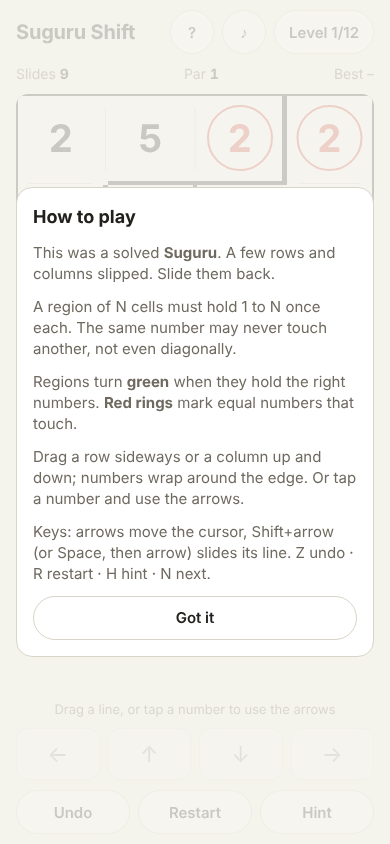
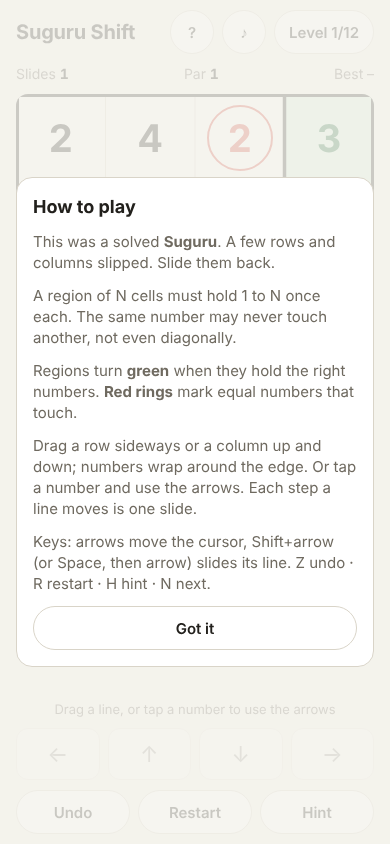
suguru-shift: reviewer fixes — readable late levels (regenerated 8-12), SVG region walls, Enter/Space on buttons, hint points at Undo when far, win card layout
Claude-Session: https://claude.ai/code/session_01KdYV55rHBy7eUg8H18qspM

diff --git a/games/suguru-shift/index.html b/games/suguru-shift/index.html
@@ -23,7 +23,8 @@
     padding: max(10px, env(safe-area-inset-top)) max(16px, env(safe-area-inset-right)) max(10px, env(safe-area-inset-bottom)) max(16px, env(safe-area-inset-left)); }
   main { width: min(100%, 480px); margin: 0 auto; min-height: 100%; display: flex; flex-direction: column; gap: 10px; }
   header { display: flex; align-items: center; gap: 8px; }
-  h1 { margin: 0; font-size: 20px; letter-spacing: -0.01em; flex: 1; }
+  h1 { margin: 0; font-size: 20px; letter-spacing: -0.01em; flex: 1; white-space: nowrap; }
+  @media (max-width: 370px) { h1 { font-size: 17px; } header .chip { padding: 0 10px; } }
   button { font: inherit; color: inherit; }
   .chip { border: 1px solid var(--line); background: var(--panel); border-radius: 999px; padding: 0 14px; min-height: 44px; min-width: 44px; cursor: pointer; font-weight: 600; font-size: 15px; }
   .chip:focus-visible, .pad button:focus-visible, .lv:focus-visible { outline: 3px solid var(--accent); outline-offset: 2px; }
@@ -32,7 +33,7 @@
   #tip { min-height: 2.8em; font-size: 14px; color: var(--muted); margin: 0; }
   #tip strong { color: var(--ink); }
   .stage { display: flex; flex-direction: column; gap: 10px; }
-  #board { position: relative; width: min(100%, max(240px, calc(100vh - 320px))); margin: 0 auto; aspect-ratio: 1; touch-action: none; user-select: none; -webkit-user-select: none;
+  #board { position: relative; width: min(100%, max(240px, calc(100vh - 345px))); margin: 0 auto; aspect-ratio: 1; touch-action: none; user-select: none; -webkit-user-select: none;
     border-radius: 12px; overflow: hidden; background: var(--wall); cursor: grab; outline: none; }
   #board.dragging { cursor: grabbing; }
   #board:focus-visible { box-shadow: 0 0 0 3px var(--accent); }
@@ -58,6 +59,9 @@
   .pad { display: grid; grid-template-columns: repeat(4, 1fr); gap: 8px; }
   .pad button { min-height: 52px; border-radius: 12px; border: 1px solid var(--line); background: var(--panel); font-size: 22px; cursor: pointer; }
   .pad button:disabled { opacity: .4; cursor: default; }
+  .chip.pulse { box-shadow: 0 0 0 3px var(--hint); }
+  body.won .tools { display: none; }
+  #win .row .chip { padding: 0 8px; }
   #win { display: none; flex-direction: column; gap: 8px; background: var(--panel); border: 1px solid var(--line); border-radius: 14px; padding: 14px; text-align: center; }
   #win h2 { margin: 0; font-size: 20px; }
   #win p { margin: 0; color: var(--muted); }
@@ -111,7 +115,7 @@
       <div id="win" role="status">
         <h2 id="winTitle">Solved!</h2>
         <p id="winText"></p>
-        <div class="row"><button class="chip" id="againBtn">Play again</button><button class="chip primary" id="nextBtn">Next level</button></div>
+        <div class="row"><button class="chip" id="winUndo">Undo</button><button class="chip" id="againBtn">Play again</button><button class="chip primary" id="nextBtn">Next level</button></div>
       </div>
       <p id="padNote"></p>
       <div class="pad" aria-label="Slide the selected line">
@@ -120,7 +124,7 @@
         <button id="padD" aria-label="Slide column down">↓</button>
         <button id="padR" aria-label="Slide row right">→</button>
       </div>
-      <div class="row">
+      <div class="row tools">
         <button class="chip" id="undoBtn">Undo</button>
         <button class="chip" id="restartBtn">Restart</button>
         <button class="chip" id="hintBtn">Hint</button>
@@ -142,7 +146,7 @@
     <p>This was a solved <strong>Suguru</strong>. A few rows and columns slipped. Slide them back.</p>
     <p>A region of N cells must hold 1 to N once each. The same number may never touch another, not even diagonally.</p>
     <p>Regions turn <strong>green</strong> when they hold the right numbers. <strong>Red rings</strong> mark equal numbers that touch.</p>
-    <p>Drag a row sideways or a column up and down; numbers wrap around the edge. Or tap a number and use the arrows.</p>
+    <p>Drag a row sideways or a column up and down; numbers wrap around the edge. Or tap a number and use the arrows. Each step a line moves is one slide.</p>
     <p class="keys">Keys: arrows move the cursor, Shift+arrow (or Space, then arrow) slides its line. Z undo · R restart · H hint · N next.</p>
     <button class="chip" id="helpClose">Got it</button>
   </div>
@@ -150,11 +154,11 @@
 <script>
 "use strict";
 // ================= constants / levels =================
-const LEVELS = [{"w":4,"h":4,"regions":[0,0,0,1,0,2,1,1,2,2,1,3,2,2,3,3],"goal":[3,2,4,2,1,5,1,3,4,2,4,2,3,1,3,1],"start":[2,4,2,3,1,5,1,3,4,2,4,2,3,1,3,1],"solution":["r0R"],"par":1},{"w":4,"h":4,"regions":[1,0,0,3,1,1,0,0,1,1,0,2,2,2,2,2],"goal":[4,3,4,1,1,5,2,5,2,3,1,3,1,4,2,5],"start":[4,3,2,1,1,5,4,5,2,3,2,3,1,4,1,5],"solution":["c2U"],"par":1},{"w":4,"h":4,"regions":[1,3,3,2,1,2,2,2,1,1,0,2,1,0,0,0],"goal":[4,2,1,2,1,5,4,3,2,3,2,1,5,1,4,3],"start":[2,1,2,4,3,1,5,4,2,3,2,1,5,1,4,3],"solution":["r0R","r1L"],"par":2},{"w":5,"h":5,"regions":[0,0,2,2,2,0,0,0,2,4,3,3,3,2,4,5,3,3,4,4,1,1,1,1,4],"goal":[2,4,2,1,3,1,5,3,5,2,2,4,1,4,1,1,5,3,5,3,3,2,4,1,4],"start":[3,4,2,1,3,2,1,5,3,5,2,4,1,4,1,2,5,3,5,3,1,2,4,1,4],"solution":["c0U","r1L"],"par":2},{"w":5,"h":5,"regions":[0,1,1,1,1,0,0,6,2,2,5,0,0,2,2,5,3,4,4,2,3,3,3,4,4],"goal":[2,3,2,4,1,1,4,1,3,2,2,3,5,4,1,1,4,2,3,5,2,3,1,4,1],"start":[2,3,2,4,1,1,4,1,3,2,3,5,4,1,2,5,1,4,2,3,2,3,1,4,1],"solution":["r2R","r3L"],"par":2},{"w":5,"h":5,"regions":[4,4,2,5,5,4,4,2,0,0,3,3,2,2,0,3,1,6,2,0,1,1,1,1,0],"goal":[1,2,5,2,1,3,4,1,4,3,1,2,3,2,5,3,5,1,4,1,1,4,2,3,2],"start":[1,2,5,2,2,3,4,1,4,1,3,1,2,3,2,5,3,5,1,4,1,4,2,3,1],"solution":["r2L","r3L","c4U"],"par":3},{"w":5,"h":5,"regions":[2,2,1,1,3,0,1,1,3,3,0,0,0,4,3,5,0,6,4,3,5,5,4,4,4],"goal":[2,1,2,1,4,3,4,3,5,2,1,5,2,4,1,3,4,1,5,3,1,2,3,2,1],"start":[1,1,2,1,4,2,4,3,1,2,3,5,2,5,1,1,4,1,4,3,2,3,2,5,3],"solution":["c3U","r4R","c0U"],"par":3},{"w":6,"h":6,"regions":[6,6,6,0,3,3,2,6,6,0,0,3,2,2,2,7,7,3,2,1,7,7,4,3,1,1,5,4,4,4,1,1,5,5,5,4],"goal":[1,2,5,2,4,1,3,4,3,1,3,2,1,2,5,2,4,5,4,3,1,3,1,3,1,2,4,5,4,2,4,5,3,2,1,3],"start":[1,2,5,1,4,1,2,3,4,3,5,3,5,1,2,3,2,4,4,3,1,5,1,3,1,2,4,2,4,2,4,5,3,2,1,3],"solution":["r1L","c3D","r2L"],"par":3},{"w":6,"h":6,"regions":[6,6,3,3,3,3,6,6,1,3,2,2,6,5,1,1,4,2,5,5,1,1,4,4,5,7,0,0,8,4,0,0,0,8,8,8],"goal":[1,5,3,1,4,2,4,2,4,5,3,1,3,1,3,1,4,2,2,4,5,2,3,1,3,1,3,1,4,2,2,5,4,2,3,1],"start":[1,5,3,1,4,2,2,4,5,3,1,4,1,3,1,4,2,3,1,2,4,5,2,3,1,3,1,4,2,3,2,5,4,2,3,1],"solution":["r1R","r2R","r3L","r4R"],"par":4},{"w":6,"h":6,"regions":[4,4,4,4,4,6,8,2,2,2,3,6,8,0,2,2,3,3,7,0,0,5,3,3,7,0,5,5,1,1,7,0,5,1,1,1],"goal":[1,4,5,2,3,1,2,3,1,4,5,2,1,4,5,2,1,3,3,2,1,3,4,2,1,5,4,2,1,3,2,3,1,5,4,2],"start":[1,2,1,5,2,3,1,3,4,4,5,2,3,4,1,2,1,3,1,2,5,3,4,2,3,2,5,1,2,1,1,3,4,5,4,2],"solution":["r4L","c2U","r0L","c0D"],"par":4},{"w":6,"h":6,"regions":[0,6,6,7,7,7,0,6,6,5,5,8,0,0,3,5,5,8,0,3,3,2,5,8,4,3,3,2,1,1,4,4,4,4,1,1],"goal":[4,2,1,3,1,2,1,3,4,2,5,3,5,2,5,1,4,2,3,1,3,2,3,1,5,2,4,1,4,2,4,1,3,2,3,1],"start":[3,4,3,1,3,1,1,5,4,2,5,5,2,1,1,4,2,1,3,2,3,2,3,2,1,5,1,4,1,4,4,2,3,2,3,2],"solution":["r0L","r4L","c1D","c5D","r2R"],"par":5},{"w":6,"h":6,"regions":[5,5,1,1,1,1,5,5,1,4,6,8,2,2,4,4,6,6,2,2,2,4,6,6,7,0,0,0,3,3,7,7,0,3,3,3],"goal":[2,4,2,1,4,3,1,3,5,3,2,1,2,4,2,1,5,4,5,1,3,4,3,1,3,4,2,1,2,5,2,1,3,4,3,1],"start":[3,2,4,2,1,1,3,5,3,2,5,1,2,4,2,1,4,4,1,5,1,3,2,3,5,3,4,2,1,1,1,3,4,3,4,2],"solution":["r0L","r4L","c4D","r1R","r3L","r5R"],"par":6}];
+const LEVELS = [{"w":4,"h":4,"regions":[0,0,0,1,0,2,1,1,2,2,1,3,2,2,3,3],"goal":[3,2,4,2,1,5,1,3,4,2,4,2,3,1,3,1],"start":[2,4,2,3,1,5,1,3,4,2,4,2,3,1,3,1],"solution":["r0R"],"par":1},{"w":4,"h":4,"regions":[1,0,0,3,1,1,0,0,1,1,0,2,2,2,2,2],"goal":[4,3,4,1,1,5,2,5,2,3,1,3,1,4,2,5],"start":[4,3,2,1,1,5,4,5,2,3,2,3,1,4,1,5],"solution":["c2U"],"par":1},{"w":4,"h":4,"regions":[1,3,3,2,1,2,2,2,1,1,0,2,1,0,0,0],"goal":[4,2,1,2,1,5,4,3,2,3,2,1,5,1,4,3],"start":[2,1,2,4,3,1,5,4,2,3,2,1,5,1,4,3],"solution":["r0R","r1L"],"par":2},{"w":5,"h":5,"regions":[0,0,2,2,2,0,0,0,2,4,3,3,3,2,4,5,3,3,4,4,1,1,1,1,4],"goal":[2,4,2,1,3,1,5,3,5,2,2,4,1,4,1,1,5,3,5,3,3,2,4,1,4],"start":[3,4,2,1,3,2,1,5,3,5,2,4,1,4,1,2,5,3,5,3,1,2,4,1,4],"solution":["c0U","r1L"],"par":2},{"w":5,"h":5,"regions":[0,1,1,1,1,0,0,6,2,2,5,0,0,2,2,5,3,4,4,2,3,3,3,4,4],"goal":[2,3,2,4,1,1,4,1,3,2,2,3,5,4,1,1,4,2,3,5,2,3,1,4,1],"start":[2,3,2,4,1,1,4,1,3,2,3,5,4,1,2,5,1,4,2,3,2,3,1,4,1],"solution":["r2R","r3L"],"par":2},{"w":5,"h":5,"regions":[4,4,2,5,5,4,4,2,0,0,3,3,2,2,0,3,1,6,2,0,1,1,1,1,0],"goal":[1,2,5,2,1,3,4,1,4,3,1,2,3,2,5,3,5,1,4,1,1,4,2,3,2],"start":[1,2,5,2,2,3,4,1,4,1,3,1,2,3,2,5,3,5,1,4,1,4,2,3,1],"solution":["r2L","r3L","c4U"],"par":3},{"w":5,"h":5,"regions":[2,2,1,1,3,0,1,1,3,3,0,0,0,4,3,5,0,6,4,3,5,5,4,4,4],"goal":[2,1,2,1,4,3,4,3,5,2,1,5,2,4,1,3,4,1,5,3,1,2,3,2,1],"start":[1,1,2,1,4,2,4,3,1,2,3,5,2,5,1,1,4,1,4,3,2,3,2,5,3],"solution":["c3U","r4R","c0U"],"par":3},{"w":6,"h":6,"regions":[6,6,6,0,3,3,2,6,6,0,0,3,2,2,2,7,7,3,2,1,7,7,4,3,1,1,5,4,4,4,1,1,5,5,5,4],"goal":[1,2,5,2,4,1,3,4,3,1,3,2,1,2,5,2,4,5,4,3,1,3,1,3,1,2,4,5,4,2,4,5,3,2,1,3],"start":[1,2,5,1,4,1,2,3,4,3,5,3,5,1,2,3,2,4,4,3,1,5,1,3,1,2,4,2,4,2,4,5,3,2,1,3],"solution":["r1L","c3D","r2L"],"par":3},{"w":6,"h":6,"regions":[7,7,3,3,3,3,7,7,2,3,5,5,1,2,2,4,0,0,1,6,2,4,4,0,1,6,6,4,4,0,1,1,6,6,8,0],"goal":[1,3,1,3,4,5,4,2,4,2,1,2,3,1,3,5,4,5,4,5,2,1,2,1,1,3,4,3,4,3,5,2,1,2,1,2],"start":[1,3,1,2,4,5,4,2,4,4,1,2,1,3,5,2,5,3,5,2,1,4,1,4,3,1,3,2,3,4,5,2,1,3,1,2],"solution":["c3D","r2R","r3R","r4L"],"par":4},{"w":6,"h":6,"regions":[8,8,8,1,1,3,2,2,8,1,1,3,2,2,2,7,1,3,0,0,0,0,6,3,4,4,0,5,6,6,4,4,5,5,5,6],"goal":[3,2,1,5,1,3,1,5,4,2,4,2,4,2,3,1,3,1,3,1,5,4,2,4,2,4,2,1,3,1,3,1,3,4,2,4],"start":[3,2,1,5,1,3,1,5,4,2,4,2,1,4,2,3,1,3,4,3,1,5,4,2,4,2,1,3,1,2,1,3,4,2,4,3],"solution":["r2L","r3L","r4R","r5R"],"par":4},{"w":6,"h":6,"regions":[1,1,8,2,2,3,1,1,8,0,3,3,6,1,8,0,3,3,6,6,6,0,0,4,6,5,7,7,0,4,5,5,5,5,4,4],"goal":[2,1,2,1,2,1,3,4,3,4,3,4,2,5,1,2,5,2,1,3,4,3,1,4,5,2,1,2,5,3,1,4,5,3,1,2],"start":[4,2,1,2,1,1,2,3,4,3,4,2,1,5,1,2,5,3,5,3,4,3,1,2,4,2,1,2,5,4,1,5,3,1,2,3],"solution":["c0D","c5U","r0L","r1L","r5R"],"par":5},{"w":6,"h":6,"regions":[4,4,6,0,0,8,4,4,6,0,0,7,4,5,1,0,2,7,5,5,1,1,2,7,5,3,3,1,2,7,3,3,3,1,2,2],"goal":[1,4,1,4,2,1,5,3,2,3,5,3,2,1,5,1,2,4,4,3,2,4,3,1,2,1,5,1,5,2,3,4,2,3,4,1],"start":[4,2,4,2,3,1,5,3,5,3,5,4,2,1,2,1,2,1,2,4,3,1,4,3,1,5,2,5,1,2,4,1,3,4,1,3],"solution":["r0R","r3L","r5R","c2D","r4R","c5D"],"par":6}];
 const TIPS = [
   "One row slipped. <strong>Drag it sideways</strong> until every region turns green.",
-  "This time a <strong>column</strong> slipped. Drag it up or down. Red rings: equal numbers touching.",
-  "Two lines moved. Fix the one you are sure of first; green regions tell you what is already right.",
+  "This time a <strong>column</strong> slipped. Drag it up or down.",
+  "Two lines moved. <strong>Red rings</strong> mark equal numbers that touch; green regions are already right.",
   "A region of 3 cells holds exactly 1, 2 and 3. A 4 or 5 in it is in the wrong place.",
   "Diagonals count: two equal numbers touching at a corner get red rings too.",
   "Three slides. Look for the region that is most wrong, and ask which line runs through it.",
@@ -198,7 +202,7 @@ function analyse(g, W, H, reg, size) {
   return { valid: okRegions.size === R && clash.size === 0, okRegions, clash };
 }
 // shortest slide list from grid a to grid b (bidirectional BFS), or null past the node budget
-function pathBetween(a, b, W, H, budget = 250000) {
+function pathBetween(a, b, W, H, budget = 90000) {
   const ka = a.join(","), kb = b.join(",");
   if (ka === kb) return [];
   const moves = moveList(W, H);
@@ -273,38 +277,31 @@ function buildBoard() {
   const { W, H, reg } = game, cells = $("cells"), tiles = $("tiles"), walls = $("walls");
   cells.replaceChildren(); tiles.replaceChildren();
   cellEls = []; tileEls = [];
-  const gap = 1.2; // percentage gap between cells (wall colour shows through)
   for (let k = 0; k < W * H; k++) {
     const x = k % W, y = (k / W) | 0, c = document.createElement("div");
     c.className = "cell";
-    c.style.left = (x * 100 / W + gap / 2) + "%"; c.style.top = (y * 100 / H + gap / 2) + "%";
-    c.style.width = (100 / W - gap) + "%"; c.style.height = (100 / H - gap) + "%";
-    // merge with same-region neighbours: extend over the gap
-    if (x < W - 1 && reg[k] === reg[k + 1]) c.style.width = (100 / W) + "%";
-    if (y < H - 1 && reg[k] === reg[k + W]) c.style.height = (100 / H) + "%";
+    c.style.left = (x * 100 / W) + "%"; c.style.top = (y * 100 / H) + "%";
+    c.style.width = (100 / W + 0.05) + "%"; c.style.height = (100 / H + 0.05) + "%";
     cells.appendChild(c); cellEls.push(c);
     const t = document.createElement("div");
     t.className = "tile"; t.innerHTML = "<span></span>";
     t.style.width = (100 / W) + "%"; t.style.height = (100 / H) + "%";
     tiles.appendChild(t); tileEls.push(t);
   }
-  // fill the little corner holes inside a region where a 2x2 block is one region
-  for (let k = 0; k < W * H; k++) {
-    const x = k % W, y = (k / W) | 0;
-    if (x < W - 1 && y < H - 1 && reg[k] === reg[k + 1] && reg[k] === reg[k + W] && reg[k] === reg[k + W + 1]) cellEls[k].style.width = (100 / W) + "%", cellEls[k].style.height = (100 / H) + "%";
-  }
   ghost = document.createElement("div"); ghost.className = "tile"; ghost.innerHTML = "<span></span>";
   ghost.style.width = (100 / W) + "%"; ghost.style.height = (100 / H) + "%"; ghost.style.display = "none";
   tiles.appendChild(ghost);
   // thin lines between cells of the same region
   walls.setAttribute("viewBox", `0 0 ${W * 10} ${H * 10}`); walls.setAttribute("preserveAspectRatio", "none");
-  let d = "";
+  let thin = "", thick = "";
   for (let k = 0; k < W * H; k++) {
     const x = k % W, y = (k / W) | 0;
-    if (x < W - 1 && reg[k] === reg[k + 1]) d += `M${(x + 1) * 10} ${y * 10 + 1.5}V${(y + 1) * 10 - 1.5}`;
-    if (y < H - 1 && reg[k] === reg[k + W]) d += `M${x * 10 + 1.5} ${(y + 1) * 10}H${(x + 1) * 10 - 1.5}`;
+    if (x < W - 1) { const seg = `M${(x + 1) * 10} ${y * 10}V${(y + 1) * 10}`; if (reg[k] === reg[k + 1]) thin += seg; else thick += seg; }
+    if (y < H - 1) { const seg = `M${x * 10} ${(y + 1) * 10}H${(x + 1) * 10}`; if (reg[k] === reg[k + W]) thin += seg; else thick += seg; }
   }
-  walls.innerHTML = `<path d="${d}" stroke="var(--line)" stroke-width="0.35" fill="none" vector-effect="non-scaling-stroke" style="stroke-width:1px"/>`;
+  walls.innerHTML = `<path d="${thin}" stroke="var(--line)" fill="none" vector-effect="non-scaling-stroke" style="stroke-width:1px"/>` +
+    `<path d="${thick}" stroke="var(--wall)" fill="none" stroke-linecap="square" vector-effect="non-scaling-stroke" style="stroke-width:3.5px"/>` +
+    `<rect x="0" y="0" width="${W * 10}" height="${H * 10}" fill="none" stroke="var(--wall)" vector-effect="non-scaling-stroke" style="stroke-width:6px"/>`;
   const fs = Math.round(Math.min($("board").clientWidth || 360, 560) / W * 0.42);
   $("tiles").style.fontSize = Math.max(16, fs) + "px";
   lastOk = analyse(game.grid, W, H, game.reg, game.size).okRegions;
@@ -367,7 +364,8 @@ function render() {
   $("padNote").textContent = sel ? `Arrows slide row ${((cursor / game.W) | 0) + 1} or column ${(cursor % game.W) + 1}` : "Drag a line, or tap a number to use the arrows";
   if (game.screen === "won") {
     const atPar = game.slides <= L.par;
-    $("winTitle").textContent = atPar ? "Solved at par ★" : "Solved!";
+    const allDone = LEVELS.every((_, i) => save.best[i]), stars = LEVELS.filter((L2, i) => save.best[i] && save.best[i] <= L2.par).length;
+    $("winTitle").textContent = game.level === LEVELS.length - 1 && allDone ? `All ${LEVELS.length} solved · ${stars} ★` : atPar ? "Solved at par ★" : "Solved!";
     $("winText").textContent = `${game.slides} ${game.slides === 1 ? "slide" : "slides"} · par ${L.par}${game.hints ? ` · ${game.hints} hint${game.hints > 1 ? "s" : ""}` : ""}` + (atPar ? "" : " · can you do it in fewer?");
     $("nextBtn").textContent = game.level === LEVELS.length - 1 ? "All levels" : "Next level";
   }
@@ -412,7 +410,13 @@ function findHint() {
 function doHint() {
   if (game.screen !== "playing" || anim) return;
   const p = findHint();
-  if (!p || !p.length) { hintMove = null; hintText = "You have wandered quite far. <strong>Undo</strong> a few slides or <strong>Restart</strong>."; render(); return; }
+  if (!p || !p.length) {
+    hintMove = null; game = { ...game, hints: game.hints + 1 };
+    hintText = game.history.length ? "Hint: you are far from the answer. Press <strong>Undo</strong>, then ask again." : "Hint: press <strong>Restart</strong>, then ask again.";
+    const btn = game.history.length ? $("undoBtn") : $("restartBtn");
+    btn.classList.add("pulse"); setTimeout(() => btn.classList.remove("pulse"), 1600);
+    render(); return;
+  }
   hintMove = p[0]; game = { ...game, hints: game.hints + 1 };
   const m = parseMove(hintMove), dir = { L: "left", R: "right", U: "up", D: "down" }[m.d];
   hintText = `Hint: slide <strong>${m.t === "r" ? "row" : "column"} ${m.i + 1} ${dir}</strong> (${p.length} ${p.length === 1 ? "slide" : "slides"} to go).`;
@@ -503,6 +507,7 @@ document.addEventListener("keydown", (e) => {
     if (e.key === "Escape") { closeSheets(); e.preventDefault(); }
     return;
   }
+  if ((e.key === "Enter" || e.key === " ") && e.target && e.target.closest && e.target.closest("button")) return;
   const dirs = { ArrowLeft: "L", ArrowRight: "R", ArrowUp: "U", ArrowDown: "D" };
   const k = e.key.toLowerCase();
   if (dirs[e.key]) {
@@ -526,7 +531,7 @@ function next() { if (game.level === LEVELS.length - 1) openPicker(); else loadL
 $("padL").onclick = () => padSlide("L"); $("padR").onclick = () => padSlide("R");
 $("padU").onclick = () => padSlide("U"); $("padD").onclick = () => padSlide("D");
 $("undoBtn").onclick = doUndo; $("restartBtn").onclick = doRestart; $("hintBtn").onclick = doHint;
-$("nextBtn").onclick = next; $("againBtn").onclick = () => loadLevel(game.level);
+$("nextBtn").onclick = next; $("winUndo").onclick = doUndo; $("againBtn").onclick = () => loadLevel(game.level);
 $("muteBtn").onclick = () => { save.muted = !save.muted; persist(); render(); };
 function openPicker() {
   const g = $("pickGrid"); g.replaceChildren();
